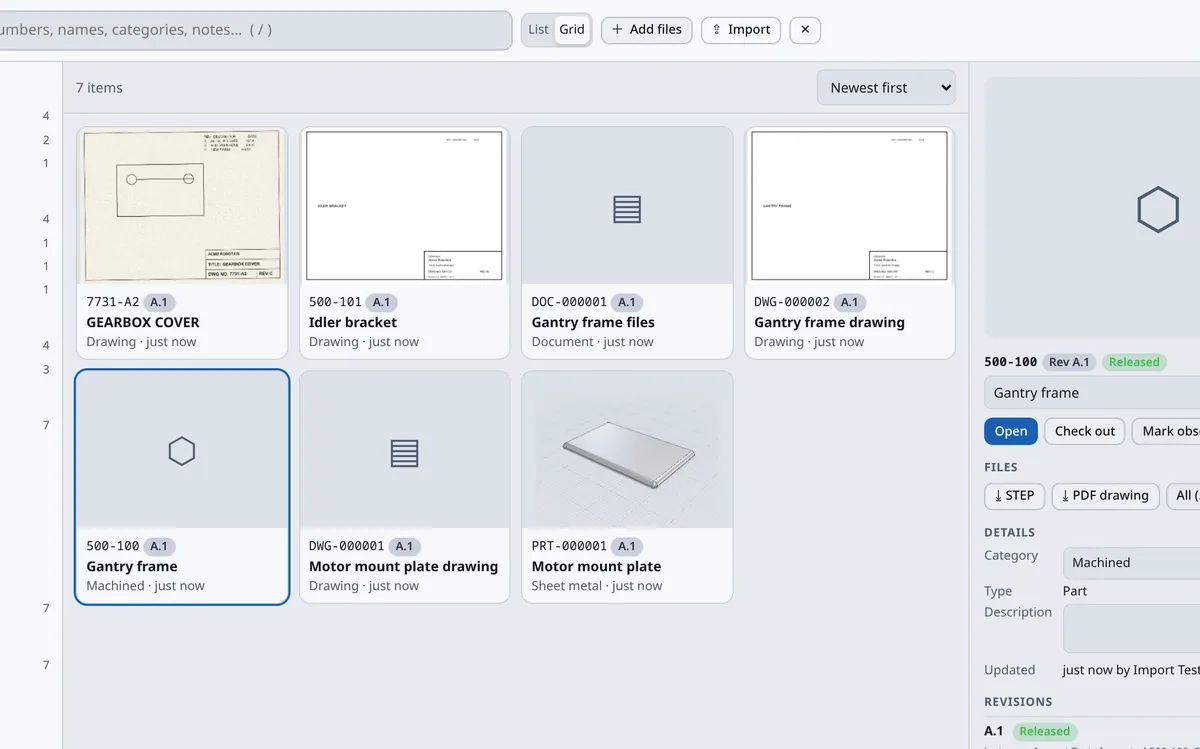
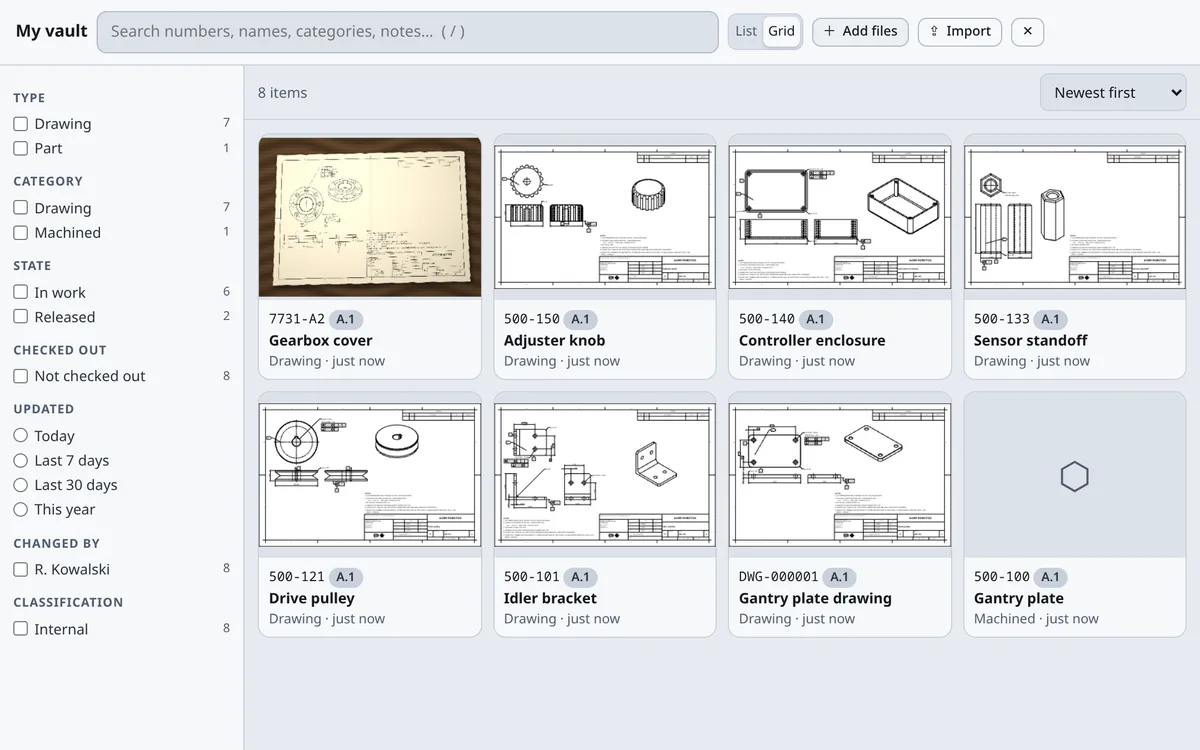
Amni-CAD vault import reads real title blocks; real drawings on the product page
- Title block reader pairs each label (DWG NO, REV, TITLE...) with the value in its
  cell by position, from pdf.js text positions or OCR word boxes. Flat-text
  regex stays as the fallback but a drawing number now needs a digit, so label
  words like REV or AND are no longer taken as the number.
- OCR runs both the default and sparse-text layouts and merges them; when a
  number or rev label is found without a value it re-reads the area under the
  label with cell lines stripped and an uppercase whitelist (single rev letters).
- Revision tables give the latest rev, not the first row.
- Opening a different part now refreshes the drawing context, so its drawing no
  longer shows the previous vault item's title, number or rev.
- pdm_import_test: a real Amni-CAD drawing PDF and a photo of a printed one.
- amni-cad page Vault shots: phone photo of a real Amni-CAD drawing, import
  preview and grid with seven real drawings.

diff --git a/cad/pdm_import.js b/cad/pdm_import.js
@@ -1,3 +1,4 @@
+import {matchLabel} from './drawlib.js';
 const LC=s=>String(s??'').toLowerCase().replace(/[^a-z0-9#]+/g,' ').trim(),PJ_URL=new URL('./vendor/pdfjs/pdf.min.mjs',import.meta.url).href,TS=new URL('./vendor/tesseract/',import.meta.url).href;
 const COLS={number:['part number','part no','part #','pn','p n','item number','item no','item #','number','document number','document no','doc number','doc no','drawing number','drawing no','dwg no','dwg number','part'],rev:['revision','rev','rev level','version','ver'],name:['description','title','name','part name','item name','document name'],state:['state','status','lifecycle','lifecycle state','lifecycle phase','life cycle phase','workflow state'],category:['category','type','class','classification','item type','part type','document type'],material:['material','matl'],file:['file name','filename','file','file path','path','document','attachment','native file']};
 export const KIND=n=>/\.(step|stp)$/i.test(n)?'model':/\.amnicad$/i.test(n)?'native':/\.(pdf|png|jpe?g|tiff?|bmp|webp|dxf|dwg)$/i.test(n)?'drawing':/\.(csv|tsv)$/i.test(n)?'list':'document';
@@ -12,26 +13,33 @@ export function meta(text){const R=csv(text).filter(r=>r.some(c=>c.trim()));if(R
 export function keyOf(file){let s=String(file).split(/[\\/]/).pop().replace(/\.[^.]+$/,'').trim(),rev='';const x=/[ _.-]+(?:rev(?:ision)?|r)[ _.-]*([A-Z]{1,2}\d?|\d{1,3})(?=$|[ _.-])/i.exec(s);x&&(rev=x[1].toUpperCase(),s=(s.slice(0,x.index)+' '+s.slice(x.index+x[0].length)).trim());
   const n0=/(?:^|[ _])([A-Z]{0,5}[-_]?\d{2,}(?:[-.]\d+)*(?:-[A-Z0-9]{1,4})?)(?=$|[ _])/i.exec(s),n=n0&&!/^(?:scan|scn|img|image|doc|page|dsc|pxl|file|copy|photo|pic)[-_]?\d/i.test(n0[1])&&!/^(?:19|20)\d\d[-_.](?:0?[1-9]|1[0-2])(?:$|[-_.])/.test(n0[1])?n0:null;if(!n)return{number:'',rev,name:s.replace(/[_]+/g,' ').trim()};let number=n[1].toUpperCase().replace(/_/g,'-'),rest=(s.slice(0,n.index)+' '+s.slice(n.index+n[0].length)).replace(/[_]+/g,' ').trim();
   const t=!rev&&/^([A-HJ-NPRT-Y]{1,2})(?:\s+(.*))?$/.exec(rest);t&&(rev=t[1].toUpperCase(),rest=t[2]||'');const u=!rev&&/-([A-HJ-NPRT-Y])$/.exec(number);u&&(rev=u[1],number=number.slice(0,-2));return{number,rev,name:rest.replace(/^[-\s]+/,'').trim()};}
-export function titleBlock(text){const t=String(text||'').replace(/[|]/g,' '),num=/(?:DWG|DRAWING|PART|DOC(?:UMENT)?|ITEM)\.?\s*(?:NO\b\.?|NUMBER|#|NUM\b\.?)\s*[:.]?\s*([A-Z0-9][A-Z0-9._\/-]{2,})/i.exec(t)||/\bP\s*\/\s*N\s*[:.]?\s*([A-Z0-9][A-Z0-9._\/-]{2,})/i.exec(t),revs=[...t.matchAll(/\bREV(?:ISION)?\b\.?\s*[:.]?\s*([A-HJ-NPRT-Y]{1,2}|\d{1,3})\b(?![a-z])/gi)].map(m=>m[1].toUpperCase()),ti=/\bTITLE\b\s*[:.]?\s*([^\n]{3,70})/i.exec(t);
-  return{number:num?num[1].toUpperCase().replace(/[.\/]+$/,''):'',rev:revs.sort((a,b)=>revOrd(a)-revOrd(b)).pop()||'',title:ti?ti[1].replace(/\s{2,}.*/,'').trim():''};}
+const LAB=v=>matchLabel(String(v).replace(/\b(DWG|DRAWING|PART|DOC|DOCUMENT)\s*\.?\s*(NO|NUMBER)\b\.?/i,'$1 $2')),TBV={number:v=>/^[A-Z0-9][A-Z0-9._\/-]{2,}$/i.test(v)&&/\d/.test(v),rev:v=>/^(?:[A-HJ-NPRT-Y]{1,2}|[a-hj-npr-y]|\d{1,3})$/.test(v),name:v=>v.length>2&&v.length<71&&/[a-z]{2}/i.test(v)&&!LAB(v)};
+export function tbBoxes(B){const o={number:[],rev:[],name:[]},L=B.map(p=>LAB(p.v));
+  B.forEach((p,i)=>{const l=L[i],k=l&&l.bind;if(!o[k])return;const f=v=>k==='name'?v.trim():v.trim().split(/\s+/)[0],c=[l.rest&&[f(l.rest),0,p.h],...B.map((q,j)=>{if(j===i||L[j])return null;const dx=q.x-p.x-p.w,dy=q.y-p.y-p.h;return Math.abs(q.y+q.h/2-p.y-p.h/2)<p.h*.6&&dx>-p.h*.2&&dx<p.h*8?[f(q.v),dx,q.h]:dy>-p.h*.3&&dy<Math.max(p.h,q.h)*(k==='rev'?8:3.5)&&q.x<p.x+p.w+p.h*7&&q.x+q.w>p.x-p.h?[f(q.v),dy+Math.abs(q.x-p.x)*.15,q.h]:null;})].filter(x=>x&&TBV[k](x[0])).sort((a,b)=>a[1]-b[1]);(k==='rev'?c:c.slice(0,1)).forEach(x=>o[k].push({v:x[0],h:x[2]}));});
+  const big=a=>(a.sort((x,y)=>y.h-x.h)[0]||{}).v||'';return{number:big(o.number).toUpperCase(),rev:o.rev.map(x=>x.v.toUpperCase()).sort((a,b)=>revOrd(a)-revOrd(b)).pop()||'',title:big(o.name)};}
+export function titleBlock(text,boxes){const g=boxes&&boxes.length?tbBoxes(boxes):{},t=String(text||'').replace(/[|]/g,' '),num=/(?:DWG|DRAWING|PART|DOC(?:UMENT)?|ITEM)\.?\s*(?:NO\b\.?|NUMBER|#|NUM\b\.?)\s*[:.]?\s*((?=[A-Z0-9._\/-]*\d)[A-Z0-9][A-Z0-9._\/-]{2,})/i.exec(t)||/\bP\s*\/\s*N\s*[:.]?\s*((?=[A-Z0-9._\/-]*\d)[A-Z0-9][A-Z0-9._\/-]{2,})/i.exec(t),revs=[...t.matchAll(/\bREV(?:ISION)?\b\.?\s*[:.]?\s*([A-HJ-NPRT-Y]{1,2}|\d{1,3})\b(?![a-z])/gi)].map(m=>m[1].toUpperCase()),ti=/\bTITLE\b\s*[:.]?\s*([^\n]{3,70})/i.exec(t),tt=ti?ti[1].replace(/\s{2,}.*/,'').trim():'';
+  return{number:g.number||(num?num[1].toUpperCase().replace(/[.\/]+$/,''):''),rev:g.rev||revs.sort((a,b)=>revOrd(a)-revOrd(b)).pop()||'',title:g.title||(tt&&!LAB(tt)?tt:'')};}
 export function plan(files,rows=[],have=()=>null){const byF=new Map(rows.filter(r=>r.file).map(r=>[r.file.toLowerCase(),r])),byN=new Map(rows.filter(r=>r.number).map(r=>[r.number,r])),G=new Map();
-  for(const f of files){if(f.list)continue;const m=byF.get(f.name.toLowerCase()),k=keyOf(f.name),tb=f.text?titleBlock(f.text):{},number=(m&&m.number||tb.number||k.number||'').toUpperCase(),r=byN.get(number)||m||{},rev=(m&&m.rev||tb.rev||k.rev||'').toUpperCase(),key=number||'~'+f.name;
+  for(const f of files){if(f.list)continue;const m=byF.get(f.name.toLowerCase()),k=keyOf(f.name),tb=f.text?titleBlock(f.text,f.boxes):{},number=(m&&m.number||tb.number||k.number||'').toUpperCase(),r=byN.get(number)||m||{},rev=(m&&m.rev||tb.rev||k.rev||'').toUpperCase(),key=number||'~'+f.name;
     G.has(key)||G.set(key,{key,number,name:r.name||tb.title||k.name||f.name.replace(/\.[^.]+$/,''),state:r.state||'',category:r.category||'',material:r.material||'',from:m||byN.has(number)?'list':tb.number?'title block':k.number?'file name':'',existing:number?have(number):null,files:[],text:''});
     const g=G.get(key);g.files.push({f,rev,kind:KIND(f.name)});f.text&&(g.text=(g.text+' '+f.text).slice(0,4000));}
   return[...G.values()].map(g=>({...g,files:g.files.sort((a,b)=>(a.kind==='model'?-1:0)-(b.kind==='model'?-1:0)||revOrd(a.rev)-revOrd(b.rev)),rev:g.files.map(x=>x.rev).filter(Boolean).sort((a,b)=>revOrd(a)-revOrd(b)).pop()||'',on:true}));}
 let PJ=null,TW=null;
 const pdfjs=()=>PJ||(PJ=import(PJ_URL).then(m=>{m.GlobalWorkerOptions.workerSrc=PJ_URL.replace('pdf.min.mjs','pdf.worker.min.mjs');return m;}).catch(e=>{PJ=null;throw e;}));
 const ocrW=()=>TW||(TW=new Promise((res,rej)=>{if(globalThis.Tesseract)return res();const s=document.createElement('script');s.src=TS+'tesseract.min.js';s.onload=res;s.onerror=()=>rej(new Error('The text reader did not load'));document.head.append(s);}).then(()=>globalThis.Tesseract.createWorker('eng',1,{workerPath:TS+'worker.min.js',corePath:TS,langPath:TS,gzip:true,logger:()=>{}})).catch(e=>{TW=null;throw e;}));
-export async function ocr(img){const w=await ocrW(),r=await w.recognize(img);return r.data.text||'';}
-export async function pdfText(bytes,{scan=true,pages=2}={}){const m=await pdfjs(),d=await m.getDocument({data:bytes.slice(),isEvalSupported:false,verbosity:0}).promise,out=[];
-  for(let i=1;i<=Math.min(pages,d.numPages);i++){const p=await d.getPage(i),t=(await p.getTextContent()).items.map(x=>x.str).join(' ');out.push(t);if(scan&&t.trim().length<20&&typeof document!=='undefined'){const v=p.getViewport({scale:2.4}),c=document.createElement('canvas');c.width=v.width;c.height=v.height;await p.render({canvasContext:c.getContext('2d'),viewport:v}).promise;out.push(await ocr(c));}}
-  return out.join('\n');}
+export async function ocr(img){const w=await ocrW(),go=async(src,psm,L=0,T=0,wl='')=>{await w.setParameters({tessedit_pageseg_mode:psm,tessedit_char_whitelist:wl});const r=await w.recognize(src,{},{text:true,blocks:true}),B=[];for(const b of r.data.blocks||[])for(const p of b.paragraphs||[])for(const l of p.lines||[]){let c=null;for(const x of l.words||[]){const x0=L+x.bbox.x0,y0=T+x.bbox.y0,x1=L+x.bbox.x1,y1=T+x.bbox.y1,h=y1-y0,v=x.text.trim();!/[A-Za-z0-9]/.test(v)?(c=null):c&&x0-c.x-c.w<Math.max(c.h,h)*.9?(c.v+=' '+v,c.w=x1-c.x,c.h=Math.max(c.y+c.h,y1)-(c.y=Math.min(c.y,y0))):B.push(c={v,x:x0,y:y0,w:x1-x0,h});}}return{text:r.data.text||'',boxes:B};},a=await go(img,'3'),b=await go(img,'11'),g=tbBoxes(a.boxes=[...a.boxes,...b.boxes]),bm=img instanceof Blob?await createImageBitmap(img):img,
+    cut=(L,T,W,H)=>{const c=document.createElement('canvas');c.width=W;c.height=H;const x=c.getContext('2d',{willReadFrequently:true});x.drawImage(bm,L,T,W,H,0,0,W,H);const d=x.getImageData(0,0,W,H),q=d.data,col=new Uint32Array(W),row=new Uint32Array(H);for(let Y=0;Y<H;Y++)for(let X=0;X<W;X++){const i=(Y*W+X)*4;q[i]*.3+q[i+1]*.59+q[i+2]*.11<128&&(col[X]++,row[Y]++);}const cm=[...col].map((_,i)=>col.slice(Math.max(0,i-2),i+3).some(v=>v>H*.4)),rm=[...row].map((_,i)=>row.slice(Math.max(0,i-2),i+3).some(v=>v>W*.4));for(let Y=0;Y<H;Y++)for(let X=0;X<W;X++)(cm[X]||rm[Y])&&q.fill(255,(Y*W+X)*4,(Y*W+X)*4+3);x.putImageData(d,0,0);return c;};
+  for(const[k,n,wl]of[['number',14,'ABCDEFGHIJKLMNOPQRSTUVWXYZ0123456789-._/'],['rev',6,'ABCDEFGHJKLMNPRTUVWXY0123456789']])if(!g[k])for(const p of a.boxes.filter(p=>(LAB(p.v)||{}).bind===k).slice(0,3)){const L=Math.max(0,Math.round(p.x-p.h*.3)),T=Math.round(p.y+p.h*1.2),W=Math.min(Math.round(p.w+p.h*n),bm.width-L),H=Math.min(Math.round(p.h*6.5),bm.height-T);W>4&&H>4&&a.boxes.push(...(await go(cut(L,T,W,H),'7',L,T,wl)).boxes);}
+  return{text:a.text+'\n'+b.text,boxes:a.boxes};}
+export async function pdfText(bytes,{scan=true,pages=2}={}){const m=await pdfjs(),d=await m.getDocument({data:bytes.slice(),isEvalSupported:false,verbosity:0}).promise,out=[],boxes=[];
+  for(let i=1;i<=Math.min(pages,d.numPages);i++){const p=await d.getPage(i),vh=p.getViewport({scale:1}).height,it=(await p.getTextContent()).items,t=it.map(x=>x.str).join(' '),oy=i*1e5;out.push(t);it.forEach(x=>{const h=x.height||Math.hypot(x.transform[2],x.transform[3]);x.str.trim()&&boxes.push({v:x.str.trim(),x:x.transform[4],y:oy+vh-x.transform[5]-h,w:x.width,h});});if(scan&&t.trim().length<20&&typeof document!=='undefined'){const v=p.getViewport({scale:2.4}),c=document.createElement('canvas');c.width=v.width;c.height=v.height;await p.render({canvasContext:c.getContext('2d'),viewport:v}).promise;const r=await ocr(c);out.push(r.text);boxes.push(...r.boxes.map(b=>({...b,y:b.y+oy+5e4})));}}
+  return{text:out.join('\n'),boxes};}
 export async function preview(n,bytes,max=320){if(typeof document==='undefined')return null;try{let src,w,h;if(/\.pdf$/i.test(n)){const m=await pdfjs(),d=await m.getDocument({data:bytes.slice(),isEvalSupported:false,verbosity:0}).promise,p=await d.getPage(1),v0=p.getViewport({scale:1}),v=p.getViewport({scale:max/Math.max(v0.width,v0.height)});src=document.createElement('canvas');src.width=w=Math.round(v.width);src.height=h=Math.round(v.height);await p.render({canvasContext:src.getContext('2d'),viewport:v}).promise;}else if(/\.(png|jpe?g|bmp|webp)$/i.test(n)){src=await createImageBitmap(new Blob([bytes],{type:MIME(n)}));const k=max/Math.max(src.width,src.height);w=Math.round(src.width*k);h=Math.round(src.height*k);}else return null;
   const c=document.createElement('canvas');c.width=w;c.height=h;const x=c.getContext('2d');x.fillStyle='#fff';x.fillRect(0,0,w,h);x.drawImage(src,0,0,w,h);return new Uint8Array(await(await new Promise(r=>c.toBlob(r,'image/png'))).arrayBuffer());}catch{return null;}}
-export async function textOf(f,bytes){const n=f.name;return/\.pdf$/i.test(n)?pdfText(bytes,{scan:typeof document!=='undefined'}):/\.(png|jpe?g|bmp|webp)$/i.test(n)&&typeof document!=='undefined'?ocr(new Blob([bytes],{type:MIME(n)})):/\.(txt|dxf)$/i.test(n)?new TextDecoder().decode(bytes.slice(0,200000)):'';}
+export async function textOf(f,bytes){const n=f.name;return/\.pdf$/i.test(n)?pdfText(bytes,{scan:typeof document!=='undefined'}):/\.(png|jpe?g|bmp|webp)$/i.test(n)&&typeof document!=='undefined'?ocr(new Blob([bytes],{type:MIME(n)})):{text:/\.(txt|dxf)$/i.test(n)?new TextDecoder().decode(bytes.slice(0,200000)):'',boxes:[]};}
 export async function read(files,progress){const L=[...files],rows=[],out=[];for(const[i,f]of L.entries()){progress&&progress(i,L.length,f.name);const b=new Uint8Array(await f.arrayBuffer());
     if(KIND(f.name)==='list'){const r=meta(new TextDecoder().decode(b));r.length?(rows.push(...r),out.push({name:f.name,list:true,rows:r.length})):out.push({name:f.name,size:b.length,bytes:b});continue;}
-    let text='';try{text=await textOf(f,b);}catch{}out.push({name:f.name,size:b.length,bytes:b,text});}
+    let r={text:'',boxes:[]};try{r=await textOf(f,b);}catch{}out.push({name:f.name,size:b.length,bytes:b,text:r.text,boxes:r.boxes});}
   progress&&progress(L.length,L.length,'');return{files:out,rows};}
 const shaOf=async b=>{const d=new Uint8Array(await crypto.subtle.digest('SHA-256',b));let s='';for(const x of d)s+=String.fromCharCode(x);return btoa(s).replace(/\+/g,'-').replace(/\//g,'_').replace(/=+$/,'');};
 export async function apply(ctx,groups,progress){const res=[],todo=groups.filter(g=>g.on),has=(id,h)=>!!id&&(ctx.item(id).revs||[]).some(r=>r.file&&r.file.sha===h);

diff --git a/cad/pdm.js b/cad/pdm.js
@@ -92,4 +92,4 @@ function provider(){const A=ST.api;if(!A.drawing||!A.drawing.registerLibraryProv
   async save(k,name,data){const id=newId(),f=await ST.cli.seal('',name.replace(/[^\w\- ]+/g,'_')+'.json','application/json',new TextEncoder().encode(JSON.stringify(data)));await ST.cli.ops([{op:'ev',ev:{t:'item',id,kind:'document',name,category:k==='symbol'?'Drawing symbol':'Sheet format',props:{drawing_asset:k}}},{op:'ev',ev:{t:'rev',item:id,file:f,bom:[],note:'Saved from Amni-CAD'}}]);return{id};},
   async remove(k,id){await ST.cli.ev({t:'update',item:id,props:{drawing_asset:null}});}});}
 export async function autoOpen(){const L=ls();if(ST.api&&!ST.cli&&!ST.pending&&!ST.busy&&ST.api.pro.has('pdm')&&(!L.identity||L.dev)&&!L.last)await openLocal();}
-export async function init(API){ST.api=API;if(ST.inited)return;ST.inited=true;API.hooks.saved=()=>autoCheck('save');API.hooks.pdmBrowse=o=>import('./pdm_ui.js').then(m=>m.browse(API,o));API.pro.onChange(()=>{if(ST.cli&&kind()==='team'&&!API.pro.has('team')||ST.cli&&!API.pro.has('pdm'))detach();emit();autoOpen();});await API.pro.load();try{await autoUnlock();await resume();}catch{}emit();}
+export async function init(API){ST.api=API;if(ST.inited)return;ST.inited=true;API.hooks.saved=()=>autoCheck('save');API.hooks.pdmBrowse=o=>import('./pdm_ui.js').then(m=>m.browse(API,o));API.onChange(d=>{const v=d&&d.vault,k=v?v.vid+'|'+v.item:'';k!==ST.lk&&(ST.lk=k,drawCtx());});API.pro.onChange(()=>{if(ST.cli&&kind()==='team'&&!API.pro.has('team')||ST.cli&&!API.pro.has('pdm'))detach();emit();autoOpen();});await API.pro.load();try{await autoUnlock();await resume();}catch{}emit();}

diff --git a/amni-cad.html b/amni-cad.html
@@ -163,9 +163,9 @@
 <h2>VAULT</h2>
 <p class="lede">Move in from your old PDM or a drawer of paper drawings.</p>
 <div class="shots">
-<figure><img src="assets/cad/page/vault-paper.webp" width="1200" height="750" alt="A phone photo of an old paper drawing with its title block" loading="lazy"><figcaption>Scan old paper drawings</figcaption></figure>
-<figure><img src="assets/cad/page/vault-import.webp" width="1200" height="750" alt="Import preview listing part numbers, revisions and names read from a PDM export and a title block" loading="lazy"><figcaption>Check the list, then import</figcaption></figure>
-<figure><img src="assets/cad/page/vault-grid.webp" width="1200" height="749" alt="The vault grid with parts, drawings and a released revision" loading="lazy"><figcaption>Every part and revision</figcaption></figure>
+<figure><img src="assets/cad/page/vault-paper.webp?v=2" width="1200" height="750" alt="A phone photo of an old paper drawing with its title block" loading="lazy"><figcaption>Scan old paper drawings</figcaption></figure>
+<figure><img src="assets/cad/page/vault-import.webp?v=2" width="1200" height="750" alt="Import preview listing part numbers, revisions and names read from a PDM export and from drawing title blocks" loading="lazy"><figcaption>Check the list, then import</figcaption></figure>
+<figure><img src="assets/cad/page/vault-grid.webp?v=2" width="1200" height="750" alt="The vault grid with imported drawings and parts" loading="lazy"><figcaption>Every part and revision</figcaption></figure>
 </div>
 </section>
 <section id="pricing">
